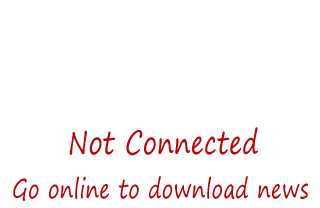
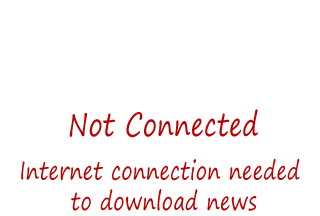
connection

Changed region(s): [[0.0312, 0.4904, 0.9688, 0.9808]]

diff --git a/index.html b/index.html
@@ -37,7 +37,13 @@
 
 			<div id="wrapper" onmousedown="doScroll()">
 				<div id="scroller">
-					<ul id="latestList"></ul>
+					<ul id="latestList">
+					<li>Connect to Internet to download news</li>
+					<li>Connect to Internet to download news</li>
+					<li>Connect to Internet to download news</li>
+					<li>Connect to Internet to download news</li>
+					<li>Connect to Internet to download news</li>
+					</ul>
 				</div>
 			</div>
 
